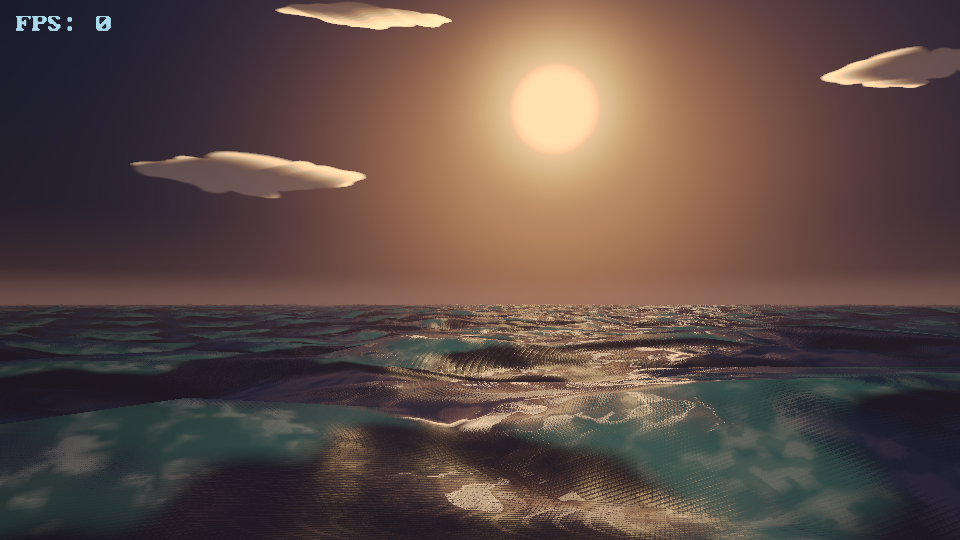
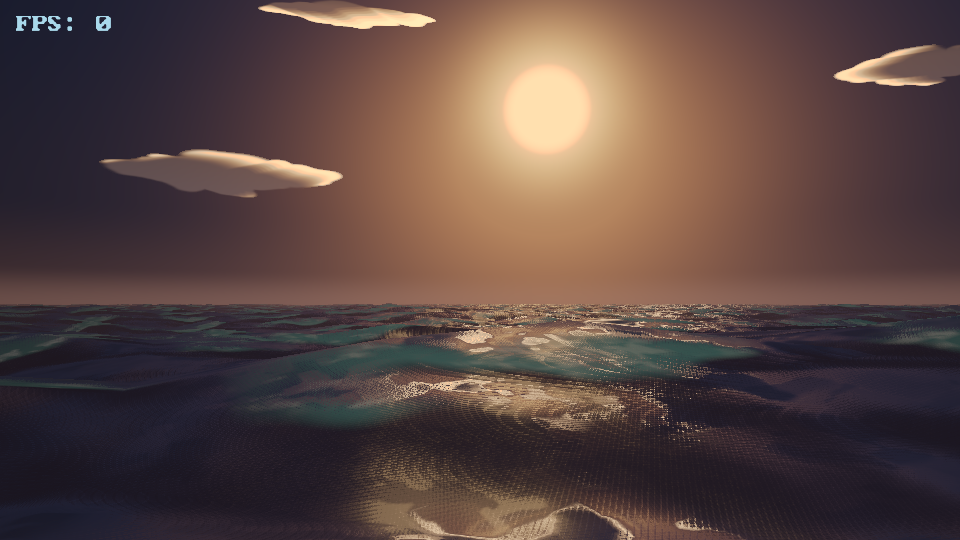
Pool: true checkerboard + 0.9/0.1 water; sea: gentler sparkle
* Pool sky/water checker: the old test lit only a centred region per
  cell (small white squares on red sky; a disc per cell in the water
  mirror), and the gnomonic unroll compressed tiles into sub-pixel
  slivers near the horizon. Now a TRUE alternating red/white checker
  (analytically box-filtered, fwidth-aware) on a constant angular grid
  (14-degree tiles) — bold square red then square white at every
  elevation, and the water mirror maps through the same grid so tile
  columns line up across the horizon.
* Pool water balance: mirror share fixed at 0.10 (0.9 water / 0.1 sky)
  per request; hidden-light specular tamed (2.4 -> 1.6, sheen 0.35 ->
  0.25); cool-white foam; caustic volume shimmer on the body.
* Sea: sparkle cap 0.85 -> 0.45 — glints shimmer instead of blazing.
  3-run means: pops 758 -> 634, rich-pixel energy -40%, frame mean
  unchanged.
* Verified: sky samples show red 0.91/0.37/0.39 tiles alternating with
  white 0.94/0.94/0.95; water blue in all bands (b > r by 0.13+).
  glslangValidator clean, full --scene-only and --pool-only runs print
  Benchmark Results. Pool + tide README screenshots re-shot.

🤖 Generated with Codebuff

diff --git a/README.md b/README.md
@@ -122,11 +122,11 @@ PoolBench is **scene 3 of the same ElectroBench binary**, also **OpenGL 3.3 core
 pool-room illusion: an infinite checkerboard ceiling-sky mirrored perfectly on open water.
 
 What it renders :
-- A **checkerboard sky dome** with analytically antialiased tiles that project to the horizon, and a
-  soft directional wash toward a **hidden light source** — there is no sun disc, no lamp model:
-  the light is only ever visible through the shading it produces
-- **Open water** that analytically mirrors the same checker function the sky uses, so the reflection
-  lines up with the sky across the horizon, plus fresnel dimming, a red-absorbing blue body, distance haze, an energy-true GGX light glint, and foam trails that linger and fade behind each splash
+- A **checkerboard sky dome** of bold, equal red and white squares at a constant angular size (14°
+  tiles, analytically antialiased) with a soft directional wash toward a **hidden light source** —
+  there is no sun disc, no lamp model: the light is only ever visible through the shading it produces
+- **Open water** that reads as deep blue with a faint tile sheen (0.9 water / 0.1 sky), mirroring the
+  same angular tile grid the sky uses so the reflection lines up across the horizon, plus a red-absorbing blue body, distance haze, an energy-true GGX light glint, caustic volume shimmer, and foam trails that linger and fade behind each splash
 - **Two waves of teapots** — 18 in total (the real Utah teapot, `assets/teapot.obj`, one material,
   placeholder texture you can swap). Wave one rains down over the first ten seconds; wave two opens
   up on the pool's outer ring from ~11 s — and the camera stays at water-plane
